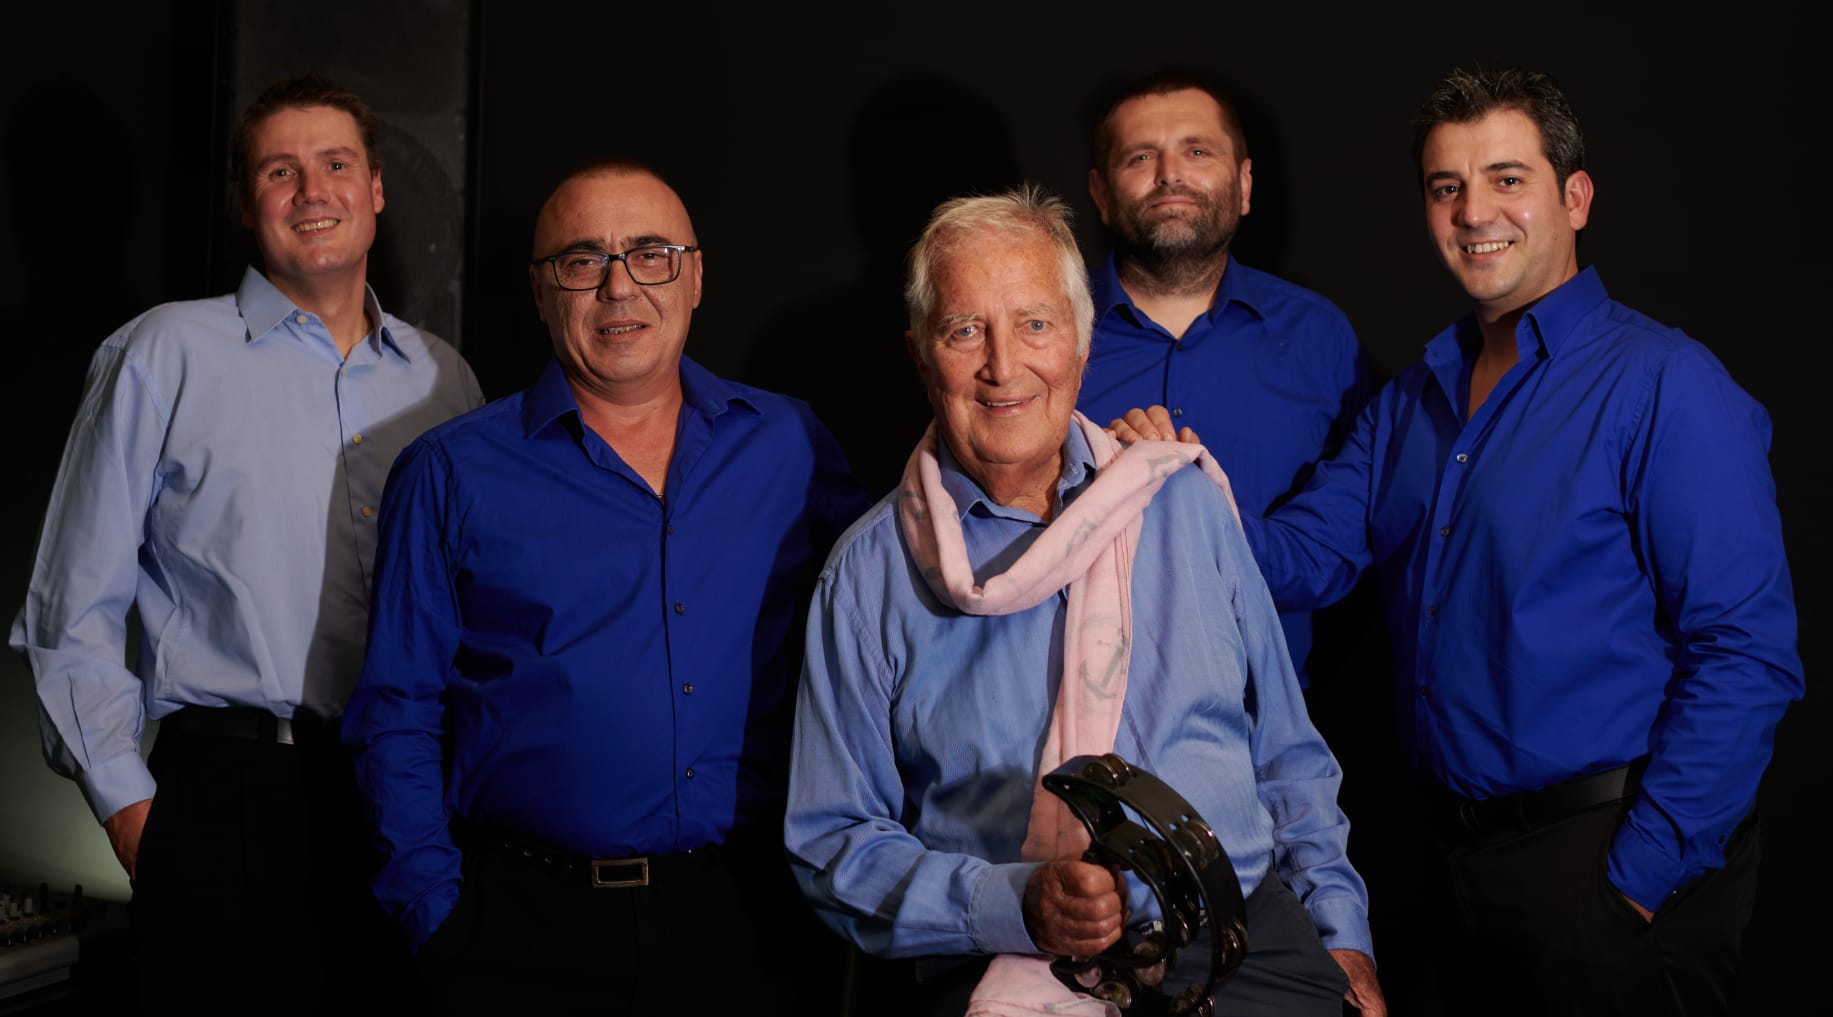
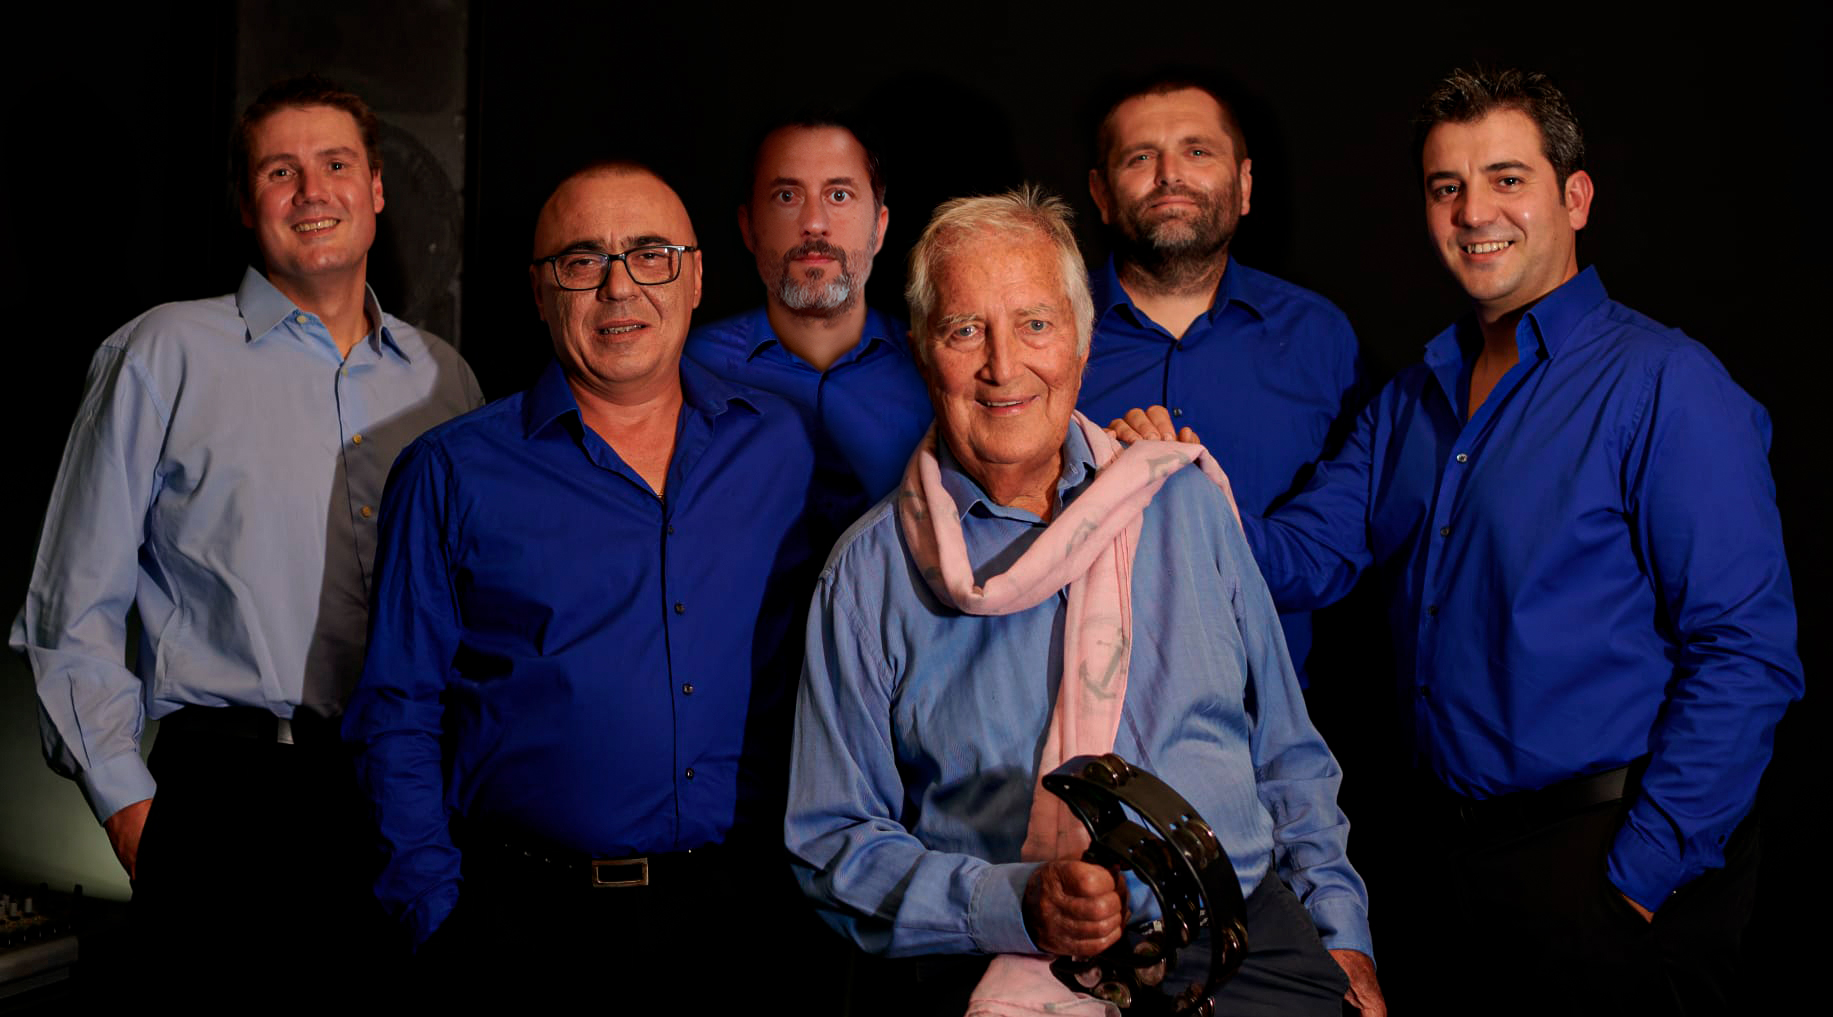
add new memeber

Changed region(s): [[0.3732, 0.1219, 0.5286, 0.4877], [0.6219, 0.3963, 0.653, 0.4267]]

diff --git a/src/components/index/TeamCard.vue b/src/components/index/TeamCard.vue
@@ -102,7 +102,7 @@ export default {
         },
         {
           name: "Daniel Salva",
-          inst: "Voz, Bajo",
+          inst: "Voz, Guitarra",
           img: "Daniel",
         },
         {
@@ -114,6 +114,11 @@ export default {
           name: "Javier Simal",
           inst: "Voz, Guitarra, Trompeta",
           img: "Javier",
+        },
+        {
+          name: "Julio Ortiz",
+          inst: "Voz, Bajo",
+          img: "Julio",
         },
       ],
     };
